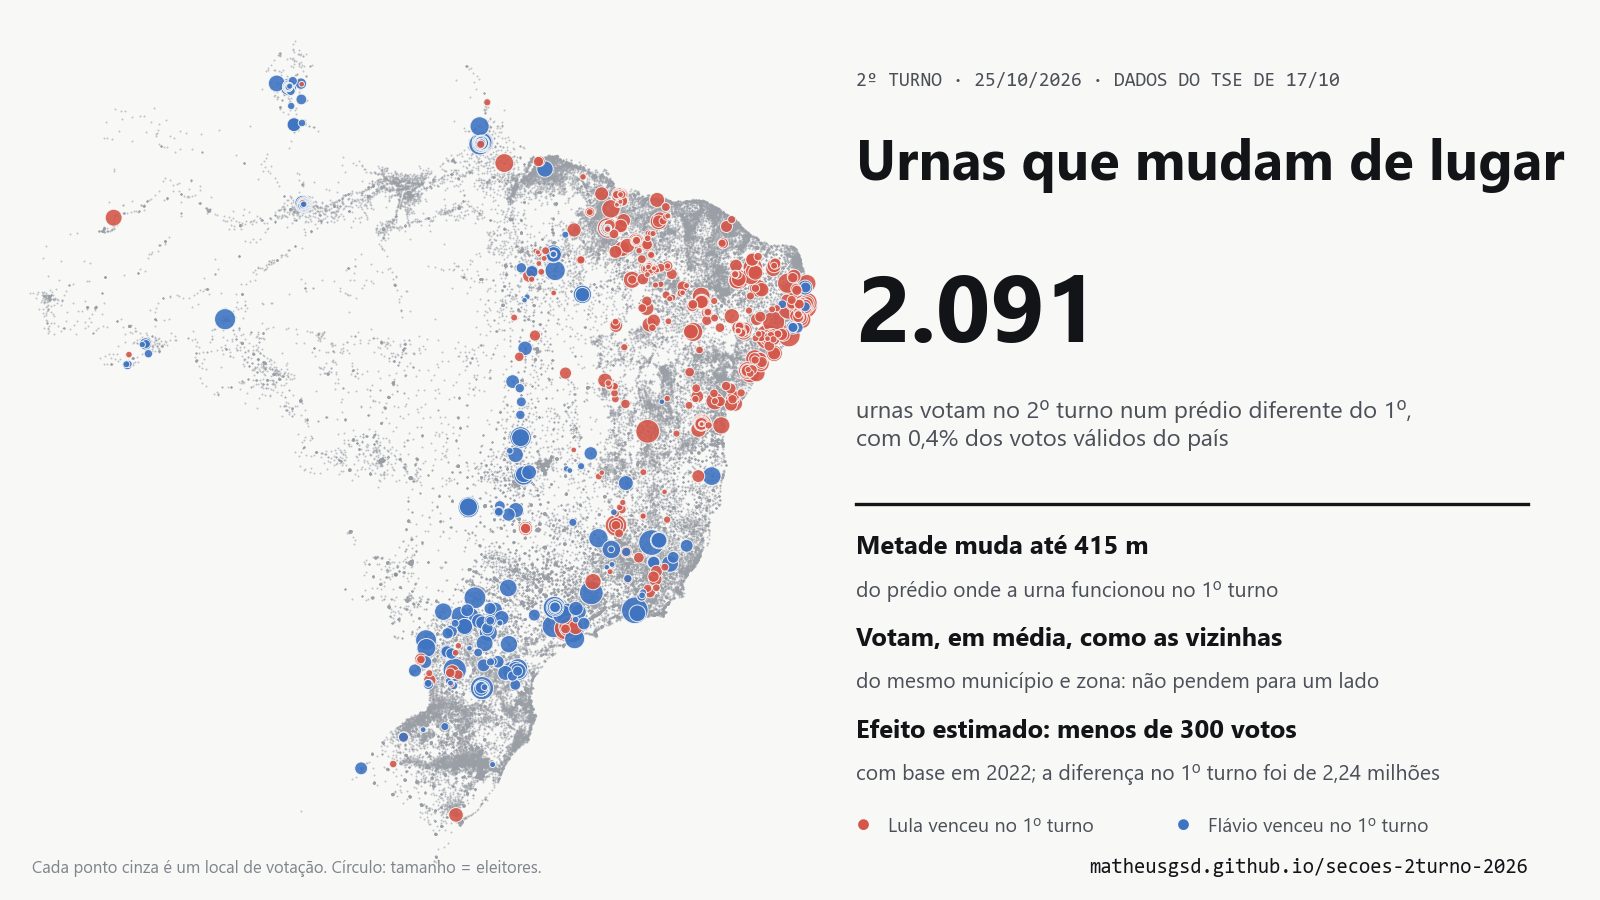
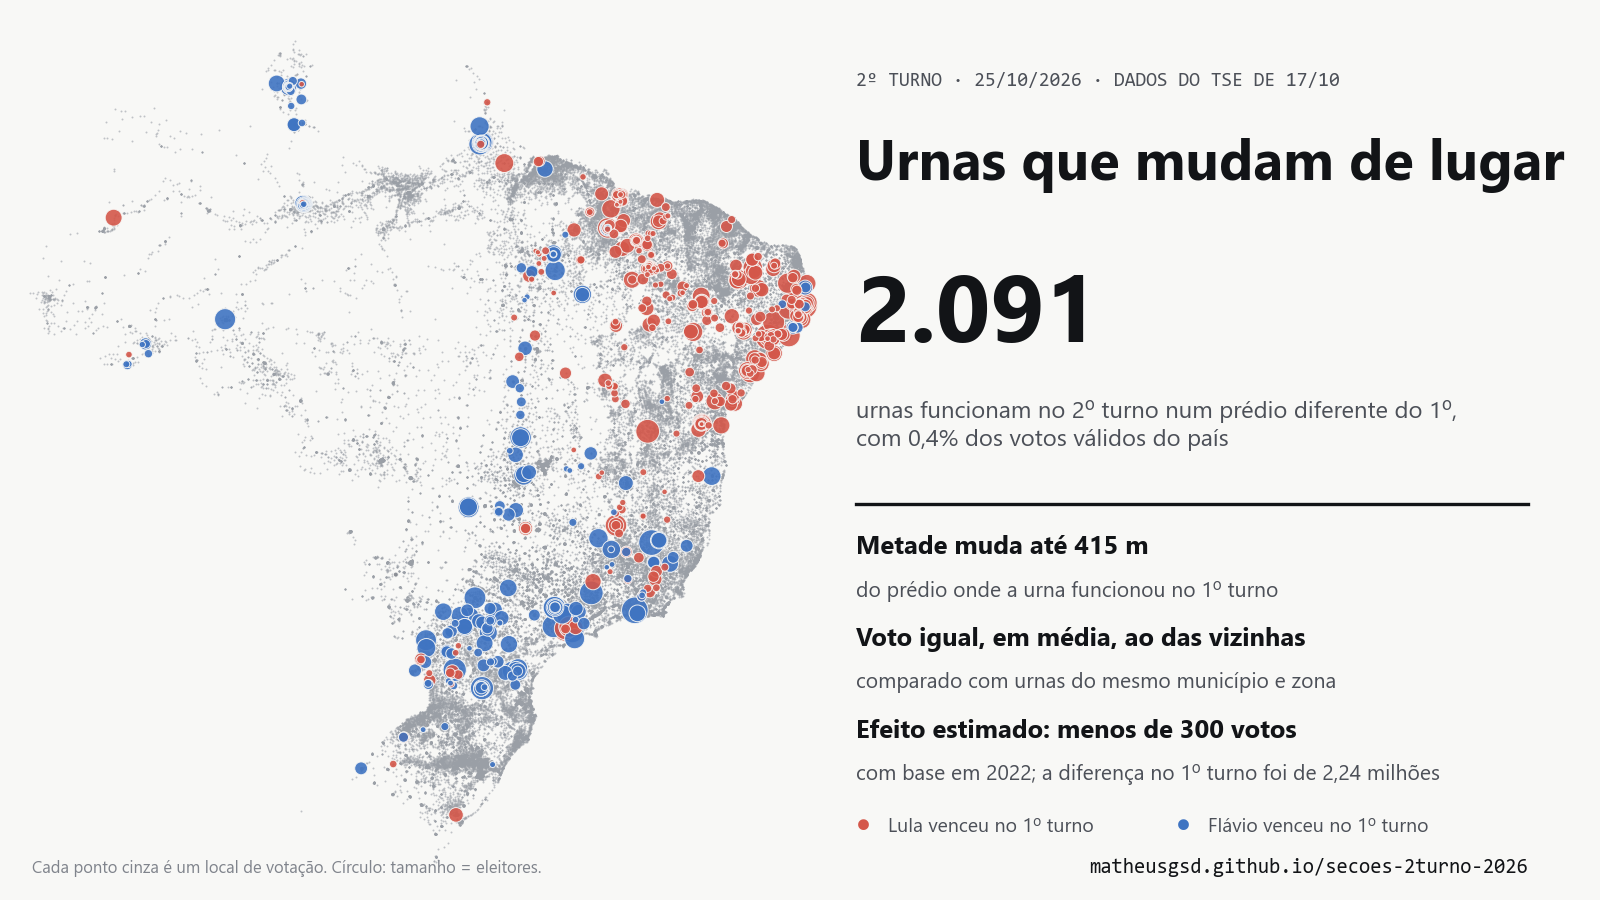
Texto: urnas funcionam, eleitores votam
Troca "urnas votam" por "urnas funcionam" e "os eleitores dessas urnas
votaram" na página, no README, no cartão e nos scripts.

Claude-Session: https://claude.ai/code/session_01PsTrgivSYTKeKGzt26YGKe

Changed region(s): [[0.5625, 0.4356, 0.9062, 0.4667], [0.5312, 0.7467, 0.875, 0.7778], [0.5625, 0.6844, 0.8125, 0.7156]]

diff --git a/docs/index.html b/docs/index.html
@@ -4,7 +4,7 @@
 <meta charset="utf-8">
 <meta name="viewport" content="width=device-width, initial-scale=1, viewport-fit=cover">
 <title>Urnas que mudam de lugar</title>
-<meta name="description" content="As 2.091 urnas que votam em outro prédio no 2º turno de 2026: onde ficam, como votaram no 1º turno, por que o número difere das 4.352 seções divulgadas pelo TSE e por que a mudança deve pesar pouco no resultado.">
+<meta name="description" content="As 2.091 urnas que funcionam em outro prédio no 2º turno de 2026: onde ficam, em quem seus eleitores votaram no 1º turno, por que o número difere das 4.352 seções divulgadas pelo TSE e por que a mudança deve pesar pouco no resultado.">
 <meta property="og:title" content="Urnas que mudam de lugar">
 <meta property="og:description" content="As 2.091 urnas que votam em outro prédio no 2º turno de 2026: onde ficam, como votaram no 1º turno e por que a mudança deve pesar pouco no resultado.">
 <link rel="preconnect" href="https://fonts.googleapis.com">
@@ -202,9 +202,9 @@ footer { padding-block: 2rem 3rem; font-size: .82rem; color: var(--tinta2); }
 <header class="topo col">
   <p class="chapeu">2º turno · 25 de outubro de 2026 · dados do TSE de 17/10, 6h28</p>
   <h1>Urnas que mudam de lugar</h1>
-  <p class="linha-fina">2.091 urnas vão funcionar em outro prédio no 2º turno. Veja onde ficam, como votaram no 1º turno, por que o número é diferente das 4.352 seções divulgadas pelo TSE e por que a mudança deve pesar pouco no resultado.</p>
+  <p class="linha-fina">2.091 urnas vão funcionar em outro prédio no 2º turno. Veja onde ficam, em quem seus eleitores votaram no 1º turno, por que o número é diferente das 4.352 seções divulgadas pelo TSE e por que a mudança deve pesar pouco no resultado.</p>
   <div class="tres" role="group" aria-label="Resumo">
-    <div><b>2.091</b><span>urnas votam no 2º turno num prédio diferente do 1º turno: 0,42% das 499.248 urnas do país</span></div>
+    <div><b>2.091</b><span>urnas funcionam no 2º turno num prédio diferente do 1º turno: 0,42% das 499.248 urnas do país</span></div>
     <div><b>621 mil</b><span>eleitores aptos nessas urnas, em 342 municípios de 24 estados, com 0,4% dos votos válidos do país</span></div>
     <div><b>≈ 0</b><span>votos de efeito estimado, com base em 2022: −48 na vantagem de Flávio, entre −200 e +180 conforme a comparação. A vantagem foi de 2,24 milhões no 1º turno</span></div>
   </div>
@@ -275,9 +275,9 @@ footer { padding-block: 2rem 3rem; font-size: .82rem; color: var(--tinta2); }
     <table class="tab-situ">
       <thead><tr><th>Situação</th><th style="text-align:left">Exemplo real</th><th>Urnas</th><th>Painel do TSE</th><th>Este levantamento</th></tr></thead>
       <tbody>
-        <tr><td class="txt"><strong>Já estava fora do local de sempre</strong> no 1º turno e continua no mesmo prédio provisório</td><td class="txt">Campo Grande (AL), zona 20: as seções 125 e 126 são da Escola Douglas Apratto, votaram no Ginásio do Colégio Douglas Apratto no dia 4 e continuam lá</td><td>4.695</td><td><span class="sim">conta</span></td><td><span class="nao">não conta</span></td></tr>
+        <tr><td class="txt"><strong>Já estava fora do local de sempre</strong> no 1º turno e continua no mesmo prédio provisório</td><td class="txt">Campo Grande (AL), zona 20: as seções 125 e 126 são da Escola Douglas Apratto, funcionaram no Ginásio do Colégio Douglas Apratto no dia 4 e continuam lá</td><td>4.695</td><td><span class="sim">conta</span></td><td><span class="nao">não conta</span></td></tr>
         <tr><td class="txt"><strong>Sai do local de sempre</strong> só no 2º turno, ou troca de um prédio provisório por outro</td><td class="txt">São Paulo, zona 256: 12 urnas da EE Conselheiro Ruy Barbosa vão para o Recanto Nossa Senhora de Lourdes, a 560 m</td><td>168</td><td><span class="sim">conta</span></td><td><span class="sim">conta</span></td></tr>
-        <tr><td class="txt"><strong>Volta ao local de sempre</strong> no 2º turno, depois de ter votado em outro prédio no 1º</td><td class="txt">Recife, zona 3: 12 urnas que votaram na Escola São Jorge voltam à Escola Monsenhor Álvaro Negromonte, a 870 m</td><td>1.877</td><td><span class="nao">não conta</span></td><td><span class="sim">conta</span></td></tr>
+        <tr><td class="txt"><strong>Volta ao local de sempre</strong> no 2º turno, depois de ter funcionado em outro prédio no 1º</td><td class="txt">Recife, zona 3: 12 urnas que funcionaram na Escola São Jorge voltam à Escola Monsenhor Álvaro Negromonte, a 870 m</td><td>1.877</td><td><span class="nao">não conta</span></td><td><span class="sim">conta</span></td></tr>
         <tr><td class="txt"><strong>O local de sempre muda de prédio</strong> sem trocar de número no cadastro</td><td class="txt">Nova Iguaçu (RJ), zona 156: 14 urnas do CIEP 351 passam para o Colégio Estadual Barão de Tinguá. O cadastro mudou nome e endereço do local, mas manteve o número</td><td>46</td><td><span class="nao">não conta</span></td><td><span class="sim">conta</span></td></tr>
       </tbody>
     </table>
@@ -293,7 +293,7 @@ footer { padding-block: 2rem 3rem; font-size: .82rem; color: var(--tinta2); }
       <div class="barra"><div class="seg-novo" style="flex: 168"></div><div class="seg-volta" style="flex: 1877"></div><div class="seg-predio" style="flex: 46"></div></div>
     </div>
     <div class="leg-barra">
-      <span><i class="seg-ja"></i>Já votaram nesse prédio no 1º turno (4.695)</span>
+      <span><i class="seg-ja"></i>Já funcionaram nesse prédio no 1º turno (4.695)</span>
       <span><i class="seg-novo"></i>Saem do local de sempre (168)</span>
       <span><i class="seg-volta"></i>Voltam ao local de sempre (1.877)</span>
       <span><i class="seg-predio"></i>Local de sempre em outro prédio (46)</span>
@@ -301,15 +301,15 @@ footer { padding-block: 2rem 3rem; font-size: .82rem; color: var(--tinta2); }
   </div>
 
   <h3>Seção ou urna?</h3>
-  <p>Em geral, cada seção tem a sua urna. A exceção é a seção agregada, que vota na urna de outra seção, a principal. O país tem 517.179 seções e 499.248 urnas, contando as 1.351 do exterior. As "499.248 seções instaladas" citadas pelo TSE são, portanto, urnas, e por isso comparamos tudo em urnas. As 2.091 urnas que mudam recebem também os eleitores de 131 seções agregadas. No exterior, nenhuma urna muda de lugar.</p>
+  <p>Em geral, cada seção tem a sua urna. A exceção é a seção agregada, cujos eleitores votam na urna de outra seção, a principal. O país tem 517.179 seções e 499.248 urnas, contando as 1.351 do exterior. As "499.248 seções instaladas" citadas pelo TSE são, portanto, urnas, e por isso comparamos tudo em urnas. As 2.091 urnas que mudam recebem também os eleitores de 131 seções agregadas. No exterior, nenhuma urna muda de lugar.</p>
 
   <h3>E a diferença de data?</h3>
   <p>O número do TSE usa dados contabilizados até 16 de outubro. Os nossos são do cadastro e do painel atualizados em 17 de outubro, às 6h28. Cada nova versão do cadastro substitui a anterior, então não é possível refazer a conta com a versão de 16/10.</p>
   <p>A data pode explicar parte da diferença no total, mas não a distribuição por estado. O TSE cita 982 seções em São Paulo, 514 em Minas, 431 no Rio de Janeiro e 312 na Bahia. Nos dados de 17/10, o painel tem 315, 323, 47 e 167 nesses estados, e as urnas que de fato mudam de prédio são 207, 178, 19 e 139. Testamos outras formas de contar, incluindo trocas de nome e de endereço, e nenhuma chega a 431 no Rio. O TSE não informou o critério desse número, e não conseguimos reproduzi-lo.</p>
 
   <h2>Quem vota nessas urnas</h2>
-  <p>No 1º turno, essas 2.091 urnas votaram mais em Lula que o resto do país: <span class="chip l"></span>Lula teve 50,6% dos votos válidos e <span class="chip f"></span>Flávio, 42,8%. No Brasil, Flávio ficou à frente, com 47,0% contra 45,2%. Lula venceu em 1.153 dessas urnas e Flávio em 929, com 9 empates. A abstenção foi praticamente a do país: 20,7%, contra 20,8%.</p>
-  <p>O motivo é geográfico: 48% desses eleitores estão no Nordeste, onde Lula vence com folga. Para saber se as mudanças pegam mais urnas de um lado, comparamos cada urna que muda com as urnas que não mudam do mesmo município e da mesma zona eleitoral. As que mudam votaram em Lula 0,4 ponto a menos que as vizinhas, com intervalo de 95% de 1,1 ponto a menos a 0,4 a mais. Em 45% delas Lula foi melhor que nas vizinhas. Em média, votam como as vizinhas: não há sinal de que as mudanças escolham urnas de um lado.</p>
+  <p>No 1º turno, os eleitores dessas 2.091 urnas votaram mais em Lula que o resto do país: <span class="chip l"></span>Lula teve 50,6% dos votos válidos e <span class="chip f"></span>Flávio, 42,8%. No Brasil, Flávio ficou à frente, com 47,0% contra 45,2%. Lula venceu em 1.153 dessas urnas e Flávio em 929, com 9 empates. A abstenção foi praticamente a do país: 20,7%, contra 20,8%.</p>
+  <p>O motivo é geográfico: 48% desses eleitores estão no Nordeste, onde Lula vence com folga. Para saber se as mudanças pegam mais urnas de um lado, comparamos cada urna que muda com as urnas que não mudam do mesmo município e da mesma zona eleitoral. Nas que mudam, Lula teve 0,4 ponto a menos que nas vizinhas, com intervalo de 95% de 1,1 ponto a menos a 0,4 a mais. Em 45% delas Lula foi melhor que nas vizinhas. Em média, o voto nelas é igual ao das vizinhas: não há sinal de que as mudanças escolham urnas de um lado.</p>
 
   <h2>O impacto, passo a passo</h2>
   <h3>1. Trocar de prédio faz o eleitor faltar?</h3>
@@ -346,7 +346,7 @@ footer { padding-block: 2rem 3rem; font-size: .82rem; color: var(--tinta2); }
   <ul class="notas">
     <li><strong>Lista das mudanças.</strong> Cadastro de locais de votação do TSE (eleitorado_local_votacao_2026, gerado em 17/10/2026 às 6h28), com uma linha por seção e por turno. Uma urna muda de prédio quando o número do local no 2º turno é diferente do 1º, salvo se nome e endereço continuam iguais (8 urnas só renumeradas). Também muda quando o número é o mesmo, mas nome e endereço mudaram juntos (46 urnas). Troca só do nome ou só do endereço é correção de cadastro e não conta (331 urnas).</li>
     <li><strong>Conferência com o painel.</strong> As 4.864 seções do painel do TSE (Estatísticas › Eleitorado › Capilaridade › Seções alteradas, atualização de 17/10 às 6h28) são exatamente as que têm local do 2º turno diferente do local de cadastro. As chaves (estado, zona e seção) batem uma a uma. São 4.863 urnas, porque uma das seções é agregada. A coluna "Eleitorado" do painel usa outra contagem.</li>
-    <li><strong>Urna e eleitores.</strong> A urna é a seção principal. Seção agregada vota nela; seção "distribuída de ofício" (só em 2022) não tem urna e fica de fora. Eleitores aptos: o eleitorado federal da urna em cada turno, que já inclui as agregadas e quem pediu transferência temporária para ela.</li>
+    <li><strong>Urna e eleitores.</strong> A urna é a seção principal. Os eleitores de seção agregada votam nela; seção "distribuída de ofício" (só em 2022) não tem urna e fica de fora. Eleitores aptos: o eleitorado federal da urna em cada turno, que já inclui as agregadas e quem pediu transferência temporária para ela.</li>
     <li><strong>Votos do 1º turno.</strong> Votação por seção do TSE, presidente, 1º turno de 2026, sem o exterior. Comparecimento é a soma dos votos para presidente, incluindo brancos e nulos.</li>
     <li><strong>Comparação com as vizinhas.</strong> Urnas que não mudam do mesmo município e da mesma zona eleitoral. Média ponderada, com intervalo de 95% por 2.000 sorteios desses grupos. Como sensibilidade, a mesma conta com toda a zona eleitoral (que pode juntar vários municípios) e com as urnas do mesmo local de cadastro.</li>
     <li><strong>Efeito de 2022 aplicado a 2026.</strong> Por tipo de mudança (volta ao local de sempre ou sai dele). O intervalo sorteia os grupos de 2022 uma vez para os dois tipos ao mesmo tempo. É uma comparação observacional: as urnas que mudam podem ser diferentes das outras por outros motivos.</li>
@@ -639,7 +639,7 @@ footer { padding-block: 2rem 3rem; font-size: .82rem; color: var(--tinta2); }
           <dt>Urnas onde Flávio venceu</dt><dd>${fmt.format(s.uf)}</dd>
           <dt>Saldo Lula − Flávio</dt><dd>${sg(saldo)}</dd>
         </dl>
-        <p>Clique ou toque num círculo para ver de onde para onde a urna vai, os endereços e como ela votou.</p></div>`;
+        <p>Clique ou toque num círculo para ver de onde para onde a urna vai, os endereços e em quem seus eleitores votaram.</p></div>`;
       if (focar) lado.querySelector("h3").focus({ preventScroll: true });
       return;
     }

diff --git a/scripts/05_imagem_x.py b/scripts/05_imagem_x.py
@@ -56,13 +56,13 @@ def main():
     t(0.80, "Urnas que mudam de lugar", size=20, weight="bold")
     t(0.62, f"{m['urnas']:,}".replace(",", "."), size=34, weight="bold")
     fatia = f"{100 * m['validos'] / n['validos']:.1f}".replace(".", ",")
-    t(0.555, f"urnas votam no 2º turno num prédio diferente do 1º,\ncom {fatia}% dos votos válidos do país",
+    t(0.555, f"urnas funcionam no 2º turno num prédio diferente do 1º,\ncom {fatia}% dos votos válidos do país",
       size=8.6, color=TINTA2, linespacing=1.35, va="top")
 
     mediana = int(round(m["dist_mediana_km"] * 1000 / 5) * 5)
     itens = [
         (f"Metade muda até {mediana} m", "do prédio onde a urna funcionou no 1º turno"),
-        ("Votam, em média, como as vizinhas", "do mesmo município e zona: não pendem para um lado"),
+        ("Voto igual, em média, ao das vizinhas", "comparado com urnas do mesmo município e zona"),
         ("Efeito estimado: menos de 300 votos", "com base em 2022; a diferença no 1º turno foi de 2,24 milhões"),
     ]
     y = 0.405

diff --git a/scripts/02_mudancas.py b/scripts/02_mudancas.py
@@ -3,7 +3,7 @@
 O painel do TSE ("Seções eleitorais alteradas no segundo turno", em Estatísticas > Eleitorado >
 Capilaridade) lista 4.864 seções em 2026. Conferimos linha a linha: são as seções cujo local no 2º
 turno é diferente do local de CADASTRO (NR_LOCAL_VOTACAO_ORIGINAL), não do local onde votaram no
-1º turno. A maioria delas já tinha votado no local novo no 1º turno. Para o eleitor, o que importa é
+1º turno. A maioria delas já tinha funcionado no local novo no 1º turno. Para o eleitor, o que importa é
 outra comparação: prédio do 1º turno x prédio do 2º turno, que fazemos aqui com o cadastro de locais
 do TSE (uma linha por seção e turno).
 

diff --git a/README.md b/README.md
@@ -9,19 +9,19 @@ quais urnas mudam de prédio, em quem esses eleitores votaram no 1º turno e qua
 
 Dados do TSE de 17/10/2026, às 6h28. O TSE ainda pode mudar locais até o dia 25.
 
-- **2.091 urnas votam no 2º turno num prédio diferente do 1º**, com 620.947 eleitores aptos, em 342 municípios de 24
+- **2.091 urnas funcionam no 2º turno num prédio diferente do 1º**, com 620.947 eleitores aptos, em 342 municípios de 24
   estados: 0,42% das urnas e 0,4% dos votos válidos do país. Metade muda até 415 m.
 - **O painel do TSE não mostra isso.** A lista "Seções alteradas" do painel de estatísticas tem 4.864 seções (4.863
-  urnas), mas compara o local do 2º turno com o local *de cadastro*. 4.695 delas já votaram nesse mesmo prédio no 1º
+  urnas), mas compara o local do 2º turno com o local *de cadastro*. 4.695 delas já funcionaram nesse mesmo prédio no 1º
   turno. E ficam de fora 1.877 urnas que voltam ao local de sempre, depois de terem sido deslocadas no 1º turno, e 46
   cujo local de sempre passou a outro prédio sem trocar de número no cadastro. Só 168 urnas estão nas duas contas.
 - **Por que não 4,3 mil.** O TSE divulgou em 16/10, e a imprensa reproduziu, que 4.352 seções mudaram de local, com
   dados até 16/10. As "499.248 seções instaladas" citadas são urnas, a mesma unidade usada aqui. O TSE não informou o
   critério. A distribuição por estado não fecha com os dados de 17/10: são 431 seções no Rio de Janeiro, onde o painel
   tem 47 e só 19 urnas mudam de prédio do 1º para o 2º turno.
-- **No 1º turno, essas urnas votaram mais em Lula** (50,6% contra 42,8% de Flávio; no país, 45,2% contra 47,0%).
+- **No 1º turno, os eleitores dessas urnas votaram mais em Lula** (50,6% contra 42,8% de Flávio; no país, 45,2% contra 47,0%).
   É geografia: 48% dos eleitores estão no Nordeste. Comparadas com as urnas que não mudam do mesmo município e da mesma
-  zona eleitoral, votaram em média como elas (−0,4 ponto para Lula, intervalo de 95% de −1,1 a +0,4).
+  zona eleitoral, o voto foi, em média, o mesmo (−0,4 ponto para Lula, intervalo de 95% de −1,1 a +0,4).
 - **Em 2022, trocar de prédio não mostrou aumento de abstenção.** Nas 1.506 urnas que trocaram de prédio entre os
   turnos, a abstenção variou 0,08 ponto a menos que nas vizinhas do mesmo município e zona (intervalo de −0,23 a
   +0,08). Em outras comparações, vai de −0,19 a +0,14 ponto. É uma comparação observacional: essas urnas já tinham
@@ -36,7 +36,7 @@ estados com 2º turno para governador (AC, AM, ES, RN, TO e DF) têm 136 urnas m
 
 ## Como foi feito
 
-A urna é a seção principal; seção agregada vota nela. Os aptos são o eleitorado federal de cada urna em cada turno.
+A urna é a seção principal; os eleitores de seção agregada votam nela. Os aptos são o eleitorado federal de cada urna em cada turno.
 Uma urna muda de prédio quando o número do local no 2º turno é diferente do 1º (salvo se nome e endereço continuam
 iguais), ou quando o número é o mesmo mas nome e endereço mudaram juntos. Coordenada só vale se cair dentro do
 município, pela malha do IBGE. Os detalhes estão no cabeçalho de cada script.
